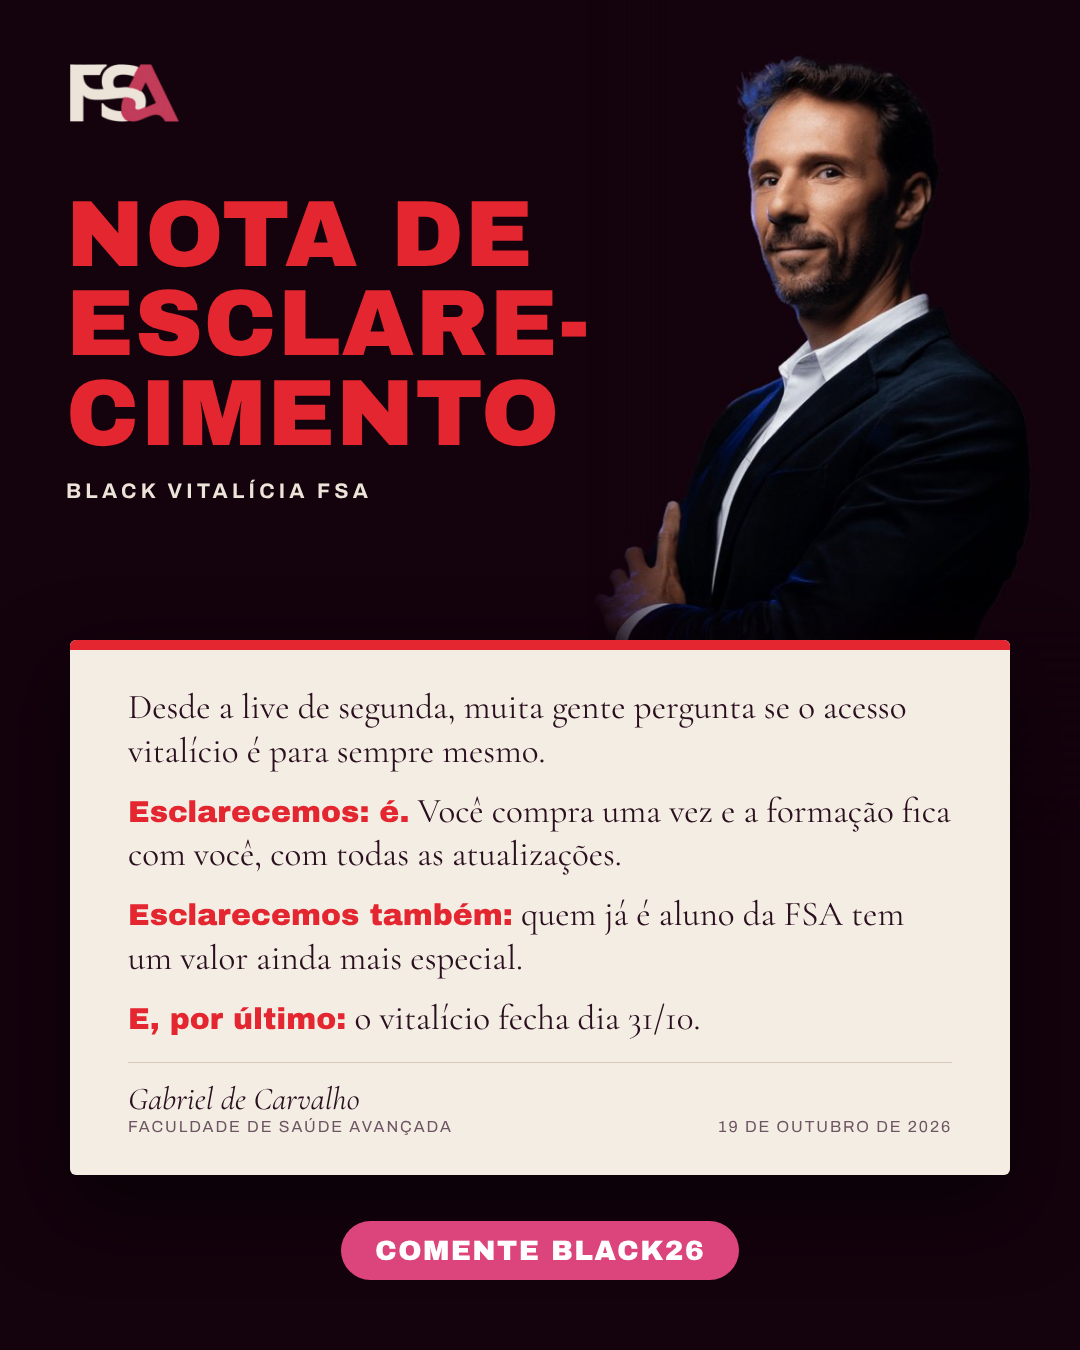
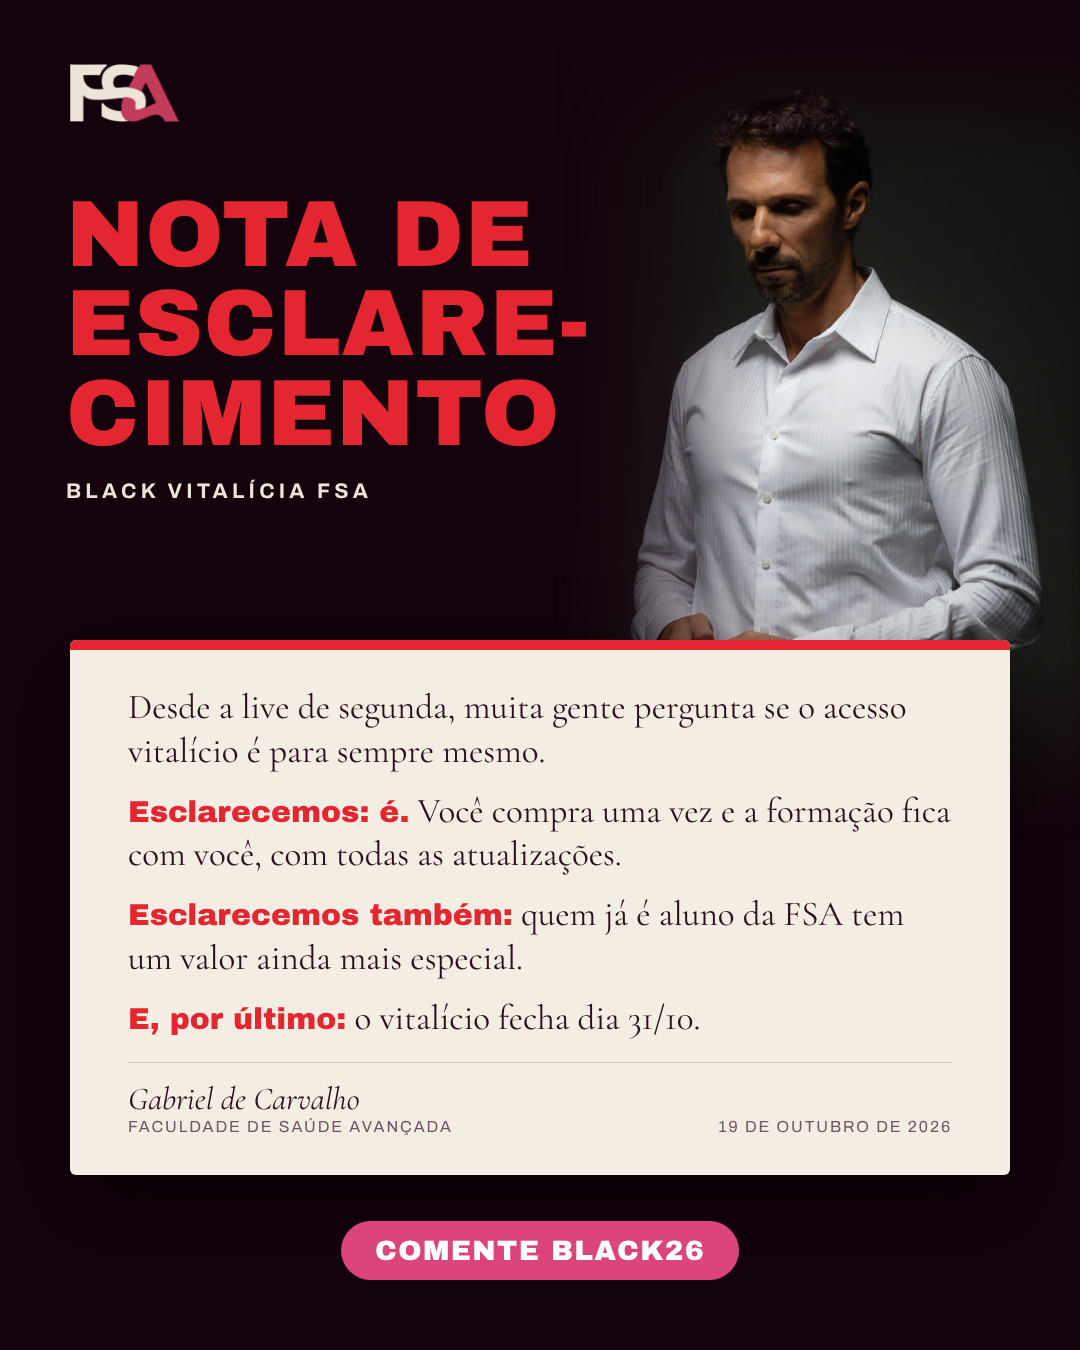
Nota de esclarecimento com foto seria do Gabriel
Claude-Session: https://claude.ai/code/session_01KgesPtUiFaTyPjQzLX5smy

Changed region(s): [[0.55, 0.0311, 1.0, 0.4978]]

diff --git a/fsa/campanha-black/nota-oficial/esclarecimento.html b/fsa/campanha-black/nota-oficial/esclarecimento.html
@@ -5,7 +5,7 @@
 @font-face{font-family:ArchB;src:url(file:///root/.fonts/archivoblack.ttf)}
 html,body{margin:0}
 #n{width:1080px;height:1350px;background:#14020D;position:relative;overflow:hidden}
-.foto{position:absolute;right:-40px;top:0;height:840px;-webkit-mask-image:linear-gradient(to bottom,#000 70%,transparent 100%),linear-gradient(to right,transparent 0,#000 18%);-webkit-mask-composite:source-in}
+.foto{position:absolute;right:-60px;top:20px;height:820px;}
 .logo{position:absolute;left:70px;top:64px;height:58px}
 .tit{position:absolute;left:66px;top:190px;width:560px}
 .tit .a{font-family:ArchB;font-size:94px;line-height:.95;color:#E3262F;letter-spacing:.01em}
@@ -20,7 +20,7 @@ p b{font-family:ArchB;font-weight:normal;font-size:30px;color:#E3262F}
 .k span{display:inline-block;padding:14px 34px;border-radius:999px;background:#DC447C;color:#fff;font-family:ArchB;font-size:28px;letter-spacing:.05em}
 </style></head><body>
 <div id="n">
- <img class="foto" src="gabriel-fsa.jpg">
+ <img class="foto" src="gabriel-serio.png">
  <img class="logo" src="logo-fsa-escuro.png">
  <div class="tit"><div class="a">NOTA DE<br>ESCLARE&shy;CIMENTO</div><div class="b">Black Vitalícia FSA</div></div>
  <div class="papel">
